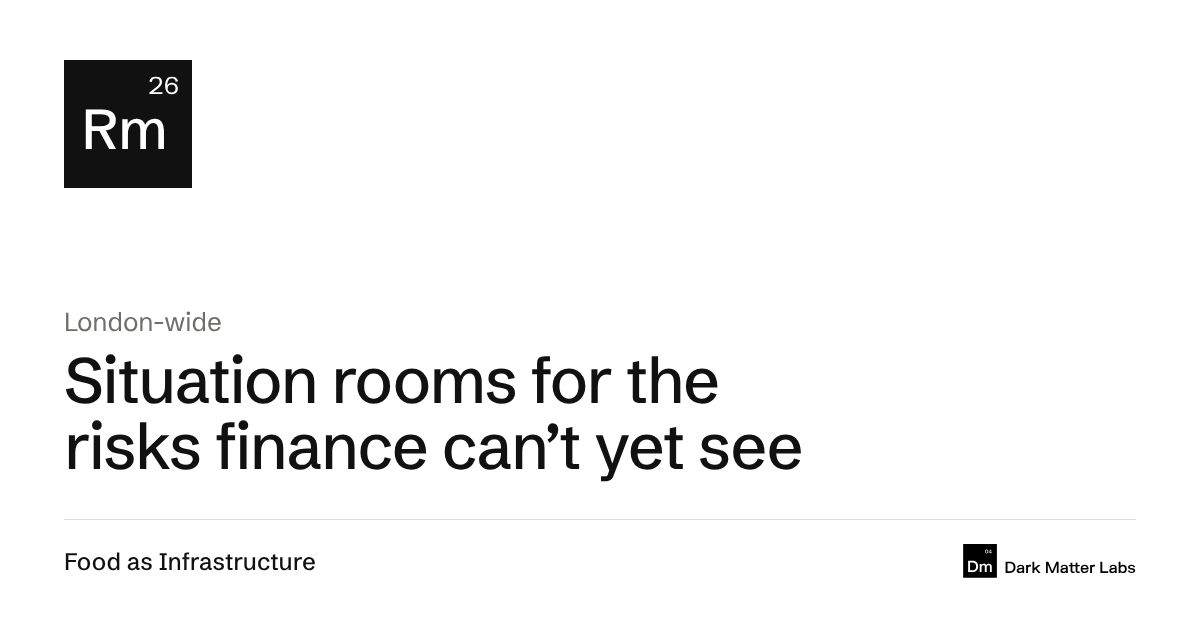
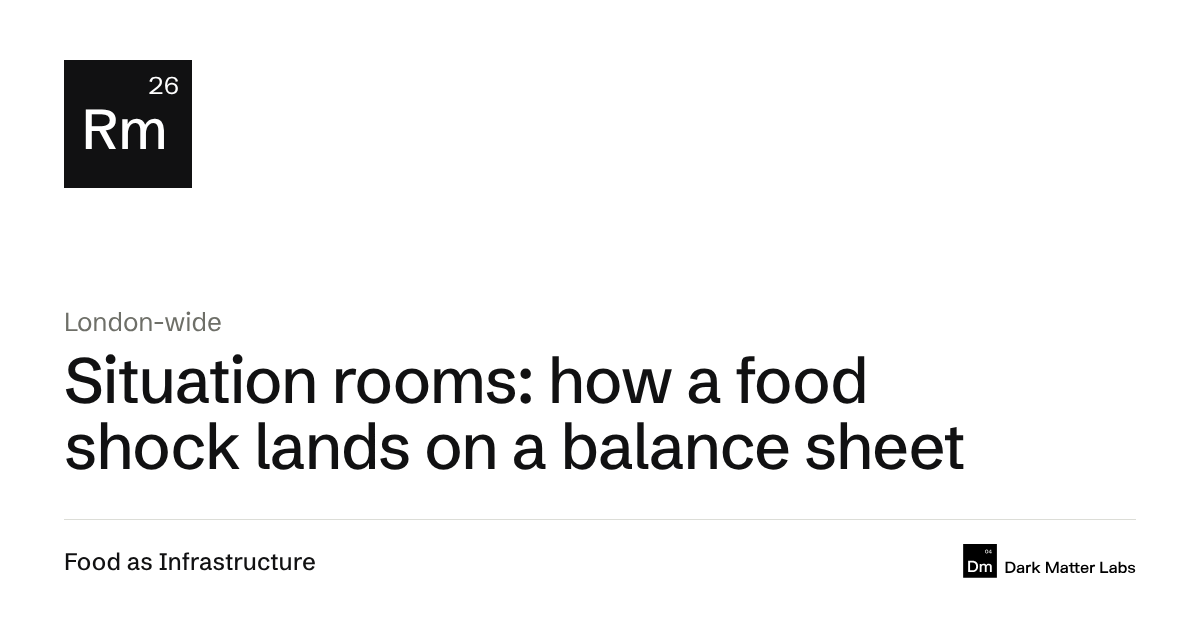
Retitle the situation-room pages: Situation rooms, how a food shock lands on a balance sheet
Claude-Session: https://claude.ai/code/session_014WTqevqxk3icJvFawm6Zpe

Changed region(s): [[0.0617, 0.5429, 0.8017, 0.754]]

diff --git a/situation-rooms.html b/situation-rooms.html
@@ -4,7 +4,7 @@
 <meta charset="UTF-8">
 <meta name="viewport" content="width=device-width, initial-scale=1.0">
 <meta name="robots" content="noindex, nofollow">
-<title>Situation rooms for the risks finance can’t yet see — Food as Infrastructure</title>
+<title>Situation rooms: how a food shock lands on a balance sheet — Food as Infrastructure</title>
 <style>
   /* A document on paper, written for potential backers. Tokens come from assets/fai/fai.css (loaded after this block). */
   *{box-sizing:border-box;}
@@ -23,6 +23,7 @@
   h1{font-size:clamp(40px,6vw,76px); font-weight:500; line-height:1.02;}
   .lede{font-size:21px; line-height:1.45; color:var(--fai-ink-2); margin-top:24px; max-width:60ch;}
   @media (max-width:760px){ .lede{font-size:19px;} }
+  .subtitle{font-size:clamp(24px,3.4vw,40px); font-weight:500; line-height:1.15; color:var(--fai-ink-2); margin-top:12px; max-width:none;}
   .actions{display:flex; flex-wrap:wrap; gap:12px; margin-top:32px;}
   .btn{display:inline-block; font-size:15px; font-weight:500; line-height:1.2; padding:12px 18px; border-radius:3px; text-decoration:none; border:1px solid var(--fai-rule-strong); color:var(--fai-ink); transition:background var(--fai-ease),border-color var(--fai-ease),color var(--fai-ease);}
   .btn:hover{border-color:var(--fai-ink); color:var(--fai-ink);}
@@ -86,17 +87,17 @@
 <meta property="og:site_name" content="Food as Infrastructure, Dark Matter Labs">
 <meta property="og:locale" content="en_GB">
 <meta property="og:url" content="https://food.darkmatterlabs.org/situation-rooms.html">
-<meta property="og:title" content="Situation rooms for the risks finance can’t yet see">
+<meta property="og:title" content="Situation rooms: how a food shock lands on a balance sheet">
 <meta property="og:description" content="Small, off-the-record situation rooms that trace a near-term shock to the decisions finance and policy leaders hold, starting with food.">
 <meta property="og:image" content="https://food.darkmatterlabs.org/assets/fai/social/situation-rooms.png">
 <meta property="og:image:width" content="1200">
 <meta property="og:image:height" content="630">
-<meta property="og:image:alt" content="Situation rooms for the risks finance can’t yet see. Food as Infrastructure, Dark Matter Labs.">
+<meta property="og:image:alt" content="Situation rooms: how a food shock lands on a balance sheet. Food as Infrastructure, Dark Matter Labs.">
 <meta name="twitter:card" content="summary_large_image">
-<meta name="twitter:title" content="Situation rooms for the risks finance can’t yet see">
+<meta name="twitter:title" content="Situation rooms: how a food shock lands on a balance sheet">
 <meta name="twitter:description" content="Small, off-the-record situation rooms that trace a near-term shock to the decisions finance and policy leaders hold, starting with food.">
 <meta name="twitter:image" content="https://food.darkmatterlabs.org/assets/fai/social/situation-rooms.png">
-<meta name="twitter:image:alt" content="Situation rooms for the risks finance can’t yet see. Food as Infrastructure, Dark Matter Labs.">
+<meta name="twitter:image:alt" content="Situation rooms: how a food shock lands on a balance sheet. Food as Infrastructure, Dark Matter Labs.">
 <link rel="icon" href="assets/fai/favicon.svg" type="image/svg+xml">
 <link rel="preconnect" href="https://fonts.googleapis.com">
 <link rel="preconnect" href="https://fonts.gstatic.com" crossorigin>
@@ -122,7 +123,8 @@
 
 <header class="doc">
   <p class="kicker">A programme from Dark Matter Labs, the Systems Transformation Hub and Climate-KIC</p>
-  <h1>Situation rooms for the risks finance can’t yet see</h1>
+  <h1>Situation rooms</h1>
+  <p class="subtitle">How a food shock lands on a balance sheet</p>
   <p class="lede">Senior people in finance and policy already accept that climate and nature risk is systemic. That knowledge has not yet changed where capital goes. We run small, off-the-record situation rooms that trace one near-term shock to the decisions the people in the room actually hold. Food is the pilot for a programme that will cover other interconnected risks.</p>
   <div class="actions">
     <a class="btn primary" href="#back">Back the programme</a>

diff --git a/nutrition-continuity-exercise.html b/nutrition-continuity-exercise.html
@@ -4,7 +4,7 @@
 <meta charset="UTF-8">
 <meta name="viewport" content="width=device-width, initial-scale=1.0">
 <meta name="robots" content="noindex, nofollow">
-<title>Situation rooms on food and financial risk (draft) — Food as Infrastructure</title>
+<title>Situation rooms: planning (draft) — Food as Infrastructure</title>
 <style>
   /* A document on paper. Tokens come from assets/fai/fai.css (loaded after this block). */
   *{box-sizing:border-box;}
@@ -26,6 +26,7 @@
   h1{font-size:clamp(40px,6vw,76px); font-weight:500; line-height:1.02;}
   .lede{font-size:21px; line-height:1.45; color:var(--fai-ink-2); margin-top:24px; max-width:60ch;}
   @media (max-width:760px){ .lede{font-size:19px;} }
+  .subtitle{font-size:clamp(24px,3.4vw,40px); font-weight:500; line-height:1.15; color:var(--fai-ink-2); margin-top:12px; max-width:none;}
   .meta{font-size:14px; color:var(--fai-ink-3); margin-top:20px; line-height:1.45;}
 
   section{padding-top:64px;}
@@ -83,17 +84,17 @@
 <meta property="og:site_name" content="Food as Infrastructure, Dark Matter Labs">
 <meta property="og:locale" content="en_GB">
 <meta property="og:url" content="https://food.darkmatterlabs.org/nutrition-continuity-exercise.html">
-<meta property="og:title" content="Situation rooms on food and financial risk">
+<meta property="og:title" content="Situation rooms: planning">
 <meta property="og:description" content="A discussion draft: small, director-level situation rooms tracing how a near-term food shock lands on financial balance sheets.">
 <meta property="og:image" content="https://food.darkmatterlabs.org/assets/fai/social/nutrition-continuity-exercise.png">
 <meta property="og:image:width" content="1200">
 <meta property="og:image:height" content="630">
-<meta property="og:image:alt" content="Situation rooms on food and financial risk. Food as Infrastructure, Dark Matter Labs.">
+<meta property="og:image:alt" content="Situation rooms: planning. Food as Infrastructure, Dark Matter Labs.">
 <meta name="twitter:card" content="summary_large_image">
-<meta name="twitter:title" content="Situation rooms on food and financial risk">
+<meta name="twitter:title" content="Situation rooms: planning">
 <meta name="twitter:description" content="A discussion draft: small, director-level situation rooms tracing how a near-term food shock lands on financial balance sheets.">
 <meta name="twitter:image" content="https://food.darkmatterlabs.org/assets/fai/social/nutrition-continuity-exercise.png">
-<meta name="twitter:image:alt" content="Situation rooms on food and financial risk. Food as Infrastructure, Dark Matter Labs.">
+<meta name="twitter:image:alt" content="Situation rooms: planning. Food as Infrastructure, Dark Matter Labs.">
 <link rel="icon" href="assets/fai/favicon.svg" type="image/svg+xml">
 <link rel="preconnect" href="https://fonts.googleapis.com">
 <link rel="preconnect" href="https://fonts.gstatic.com" crossorigin>
@@ -124,7 +125,8 @@
 
 <header class="doc">
   <p class="kicker">Discussion document, systemic risk and financial stability</p>
-  <h1>Situation rooms on how a food shock lands on a balance sheet</h1>
+  <h1>Situation rooms</h1>
+  <p class="subtitle">How a food shock lands on a balance sheet</p>
   <p class="lede">Senior people in finance and policy already accept that climate and nature risk is systemic. That knowledge has not yet changed where capital goes. We propose a standing situation-room capability that can be adapted to any set of interconnected risks. Its pilot is a pair of small, director-level rooms in early 2027 that trace a near-term food shock to the exposures the people in the room are responsible for. Labour, then heat or water, come next.</p>
   <p class="meta">Fourth draft by Milan and Adam, 22 November 2026, after the partners’ planning call.</p>
 </header>
